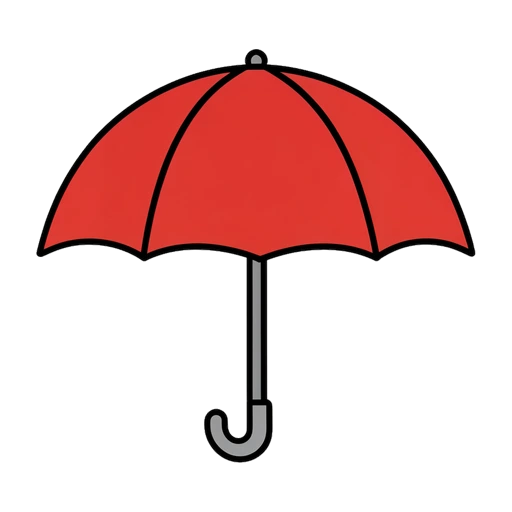
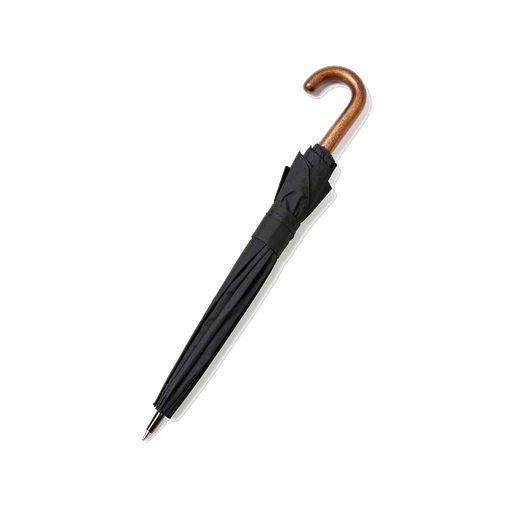
fix(desafio): rebuild Es esta sombra with harder, adult-appropriate objects
Professional feedback called día17 too easy and too childish. Both were
real: the object pool was flat cartoon-sticker icons (a visibly different,
more juvenile style than the rest of the app), and decoys were picked
uniform-random from 10 maximally-different silhouettes, so matching was
trivial by rough outline category with no real discrimination needed.

Regenerated all objects as photorealistic studio product photos and
expanded the pool from 10 to 18, organized into 9 deliberately-confusable
silhouette pairs (zapatilla/bota, sombrero/gorra, paraguas/bastón,
guitarra/violín, taza/jarra, tijera/pinza, pez/hoja, llave/destornillador,
pelota/manzana). Nivel 2/3 now always include the target's pair-sibling
among the decoys, forcing an actual close look instead of eliminating
options by category at a glance; nivel 1 stays fully random as an easy
warm-up round.

Changed region(s): [[0.0625, 0.0938, 0.9375, 0.9062]]

diff --git a/src/pages/desafio/games/EsEstaSombra.tsx b/src/pages/desafio/games/EsEstaSombra.tsx
@@ -12,30 +12,81 @@ import type { GameProps } from '@/lib/challengeProgress'
  * the exact same colored asset as the reference option, rendered with
  * Tailwind's `brightness-0` filter utility (`filter: brightness(0)`), which
  * zeroes RGB while preserving alpha — a crisp black cutout with no separate
- * "shadow" art to keep in sync. This only works because the new
- * `es-esta-sombra/` assets were matted to real alpha transparency (a
- * border-seeded flood fill so enclosed pale regions — a sneaker's white
- * sole, a fish's pale belly — stay opaque instead of being punched through
- * by a same-color-as-background heuristic).
+ * "shadow" art to keep in sync. This only works because the `es-esta-sombra/`
+ * assets are matted to real alpha transparency (a border-seeded flood fill
+ * so enclosed pale regions — a sneaker's white sole — stay opaque instead of
+ * being punched through by a same-color-as-background heuristic).
  *
  * Same eliminate-and-retry mechanic as EncontraLaFiguraIgual.tsx (this app's
  * closest sibling: one target, several tappable options, a wrong tap just
  * eliminates that option and nudges, never ends the round) — so
  * totalAttempts = mistakes + a fixed round count, same accounting.
+ *
+ * REBUILT per professional feedback ("muy fácil, muy infantil") + explicit
+ * user request to harden rather than replace the exercise. Two independent
+ * problems, two independent fixes:
+ * (1) "Infantil": the original 10 objects were flat cartoon-sticker icons
+ *     (bold uniform outline, candy-flat colors) — a visibly different, more
+ *     childish genre than the photorealistic style everywhere else in this
+ *     app. Regenerated all objects as photorealistic studio product photos.
+ * (2) "Fácil": decoys were picked uniform-random from a small pool of
+ *     maximally-DIFFERENT silhouette shapes (a shoe vs a guitar vs a fish),
+ *     so matching was trivial by rough outline category with zero real
+ *     discrimination needed. Fixed by expanding the pool to 18 objects
+ *     organized into 9 deliberately-confusable SILHOUETTE PAIRS (same rough
+ *     outline family, genuinely different only on close inspection — see
+ *     SIBLING below) and biasing L2/L3 decoys to always include the
+ *     target's pair-sibling, so the harder levels force a real look instead
+ *     of eliminating options by category at a glance. L1 stays fully random
+ *     (gentle intro), matching this app's usual easy-first ramp.
  */
 
-const POOL_IDS = ['llave', 'tijera', 'zapatilla', 'sombrero', 'pez', 'hoja', 'paraguas', 'pelota', 'guitarra', 'taza']
+const POOL_IDS = [
+  'zapatilla', 'bota',
+  'sombrero', 'gorra',
+  'paraguas', 'baston',
+  'guitarra', 'violin',
+  'taza', 'jarra',
+  'tijera', 'pinza',
+  'pez', 'hoja',
+  'llave', 'destornillador',
+  'pelota', 'manzana',
+]
 const LABELS: Record<string, string> = {
-  llave: 'la llave',
-  tijera: 'la tijera',
   zapatilla: 'la zapatilla',
+  bota: 'la bota',
   sombrero: 'el sombrero',
+  gorra: 'la gorra',
+  paraguas: 'el paraguas',
+  baston: 'el bastón',
+  guitarra: 'la guitarra',
+  violin: 'el violín',
+  taza: 'la taza',
+  jarra: 'la jarra',
+  tijera: 'la tijera',
+  pinza: 'la pinza',
   pez: 'el pez',
   hoja: 'la hoja',
-  paraguas: 'el paraguas',
+  llave: 'la llave',
+  destornillador: 'el destornillador',
   pelota: 'la pelota',
-  guitarra: 'la guitarra',
-  taza: 'la taza',
+  manzana: 'la manzana',
+}
+
+// Deliberately confusable silhouette pairs (same rough outline family —
+// footwear, headwear, handled vessel, hinged tool, curvy string instrument,
+// etc.) — see the file header. Symmetric: every id maps to exactly one
+// sibling and vice versa.
+const SIBLING: Record<string, string> = {
+  zapatilla: 'bota', bota: 'zapatilla',
+  sombrero: 'gorra', gorra: 'sombrero',
+  paraguas: 'baston', baston: 'paraguas',
+  guitarra: 'violin', violin: 'guitarra',
+  taza: 'jarra', jarra: 'taza',
+  tijera: 'pinza', pinza: 'tijera',
+  pez: 'hoja', hoja: 'pez',
+  llave: 'destornillador', destornillador: 'llave',
+  pelota: 'manzana', manzana: 'pelota',
 }
 
 const IMAGES = import.meta.glob('../../../assets/desafio/games/es-esta-sombra/*.webp', {
@@ -51,11 +102,15 @@ interface Level {
   name: string
   rounds: number
   options: number
+  // Force the target's confusable SIBLING into the decoy set (see SIBLING
+  // above) instead of picking decoys fully at random. Off for nivel 1 so
+  // the day still opens with an easy, unambiguous warm-up round.
+  biasSibling: boolean
 }
 const LEVELS: Level[] = [
-  { n: 1, name: 'Nivel 1', rounds: 2, options: 4 },
-  { n: 2, name: 'Nivel 2', rounds: 3, options: 4 },
-  { n: 3, name: 'Nivel 3', rounds: 3, options: 5 },
+  { n: 1, name: 'Nivel 1', rounds: 2, options: 4, biasSibling: false },
+  { n: 2, name: 'Nivel 2', rounds: 3, options: 4, biasSibling: true },
+  { n: 3, name: 'Nivel 3', rounds: 3, options: 5, biasSibling: true },
 ]
 const TOTAL_ROUNDS = LEVELS.reduce((sum, l) => sum + l.rounds, 0)
 
@@ -77,7 +132,18 @@ interface Round {
 }
 function makeRound(level: Level): Round {
   const targetId = pickOne(POOL_IDS)
-  const decoys = shuffle(POOL_IDS.filter((id) => id !== targetId)).slice(0, level.options - 1)
+  const rest = POOL_IDS.filter((id) => id !== targetId)
+  let decoys: string[]
+  if (level.biasSibling) {
+    // Guarantee the target's look-alike sibling is one of the decoys, then
+    // fill the rest at random — the sibling is what actually makes this
+    // round require a careful look instead of a glance.
+    const sibling = SIBLING[targetId]
+    const others = shuffle(rest.filter((id) => id !== sibling))
+    decoys = [sibling, ...others].slice(0, level.options - 1)
+  } else {
+    decoys = shuffle(rest).slice(0, level.options - 1)
+  }
   return { targetId, optionIds: shuffle([targetId, ...decoys]) }
 }
 
